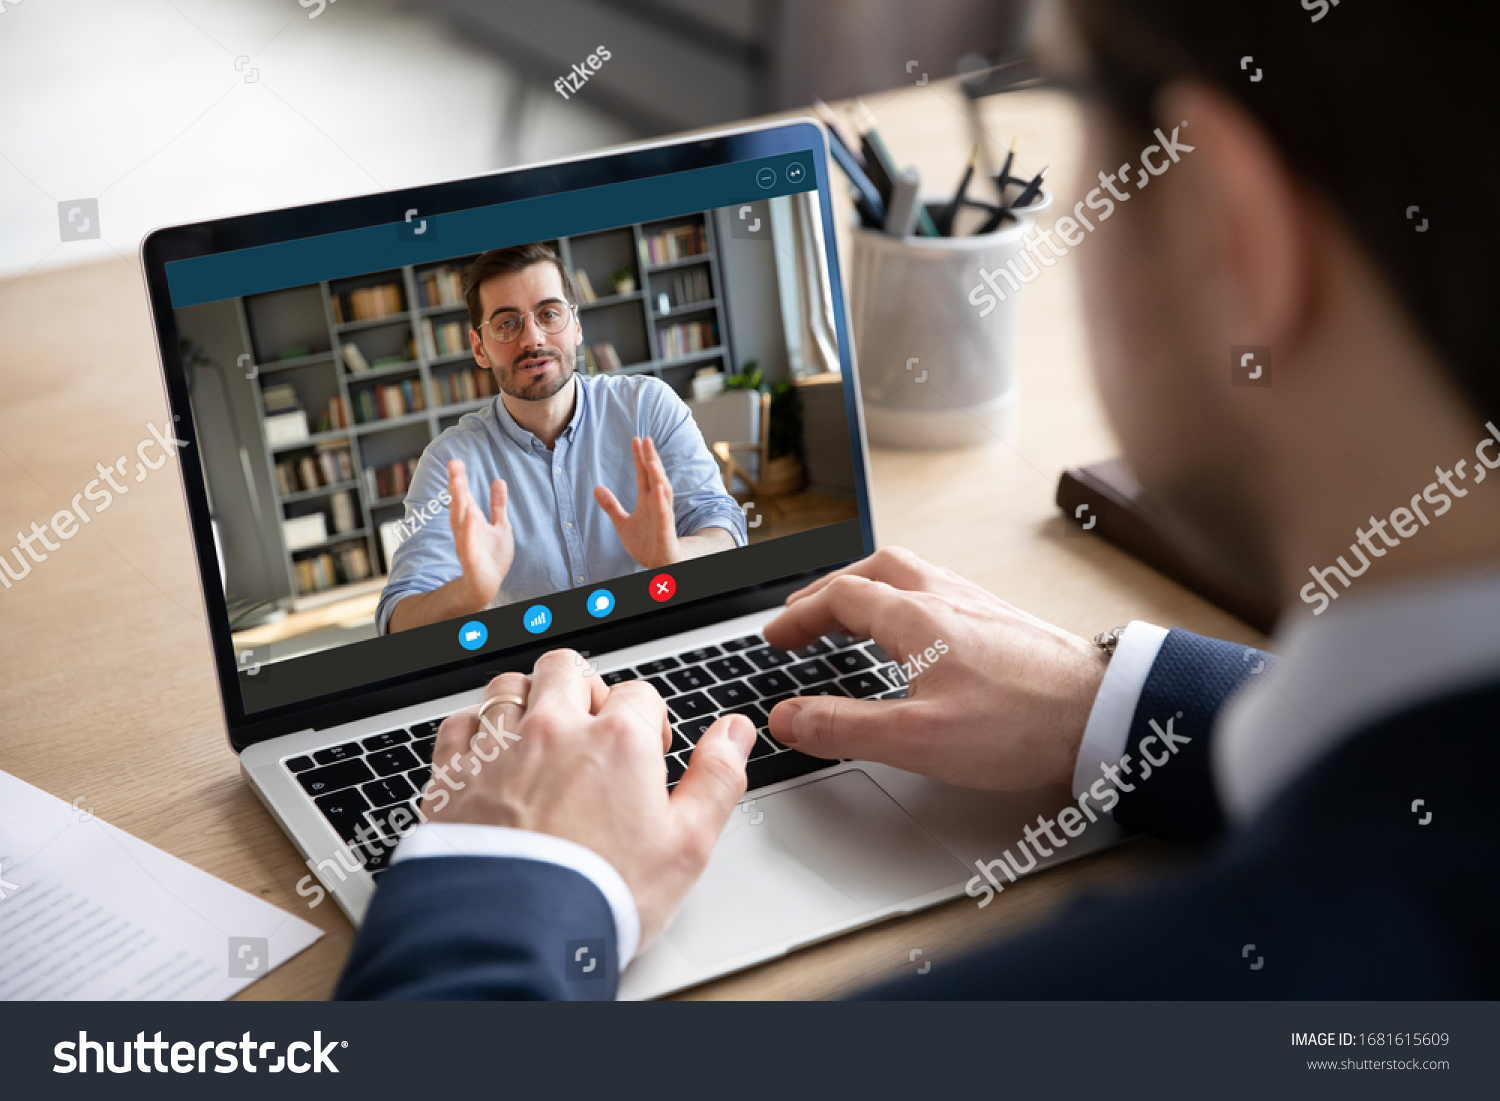
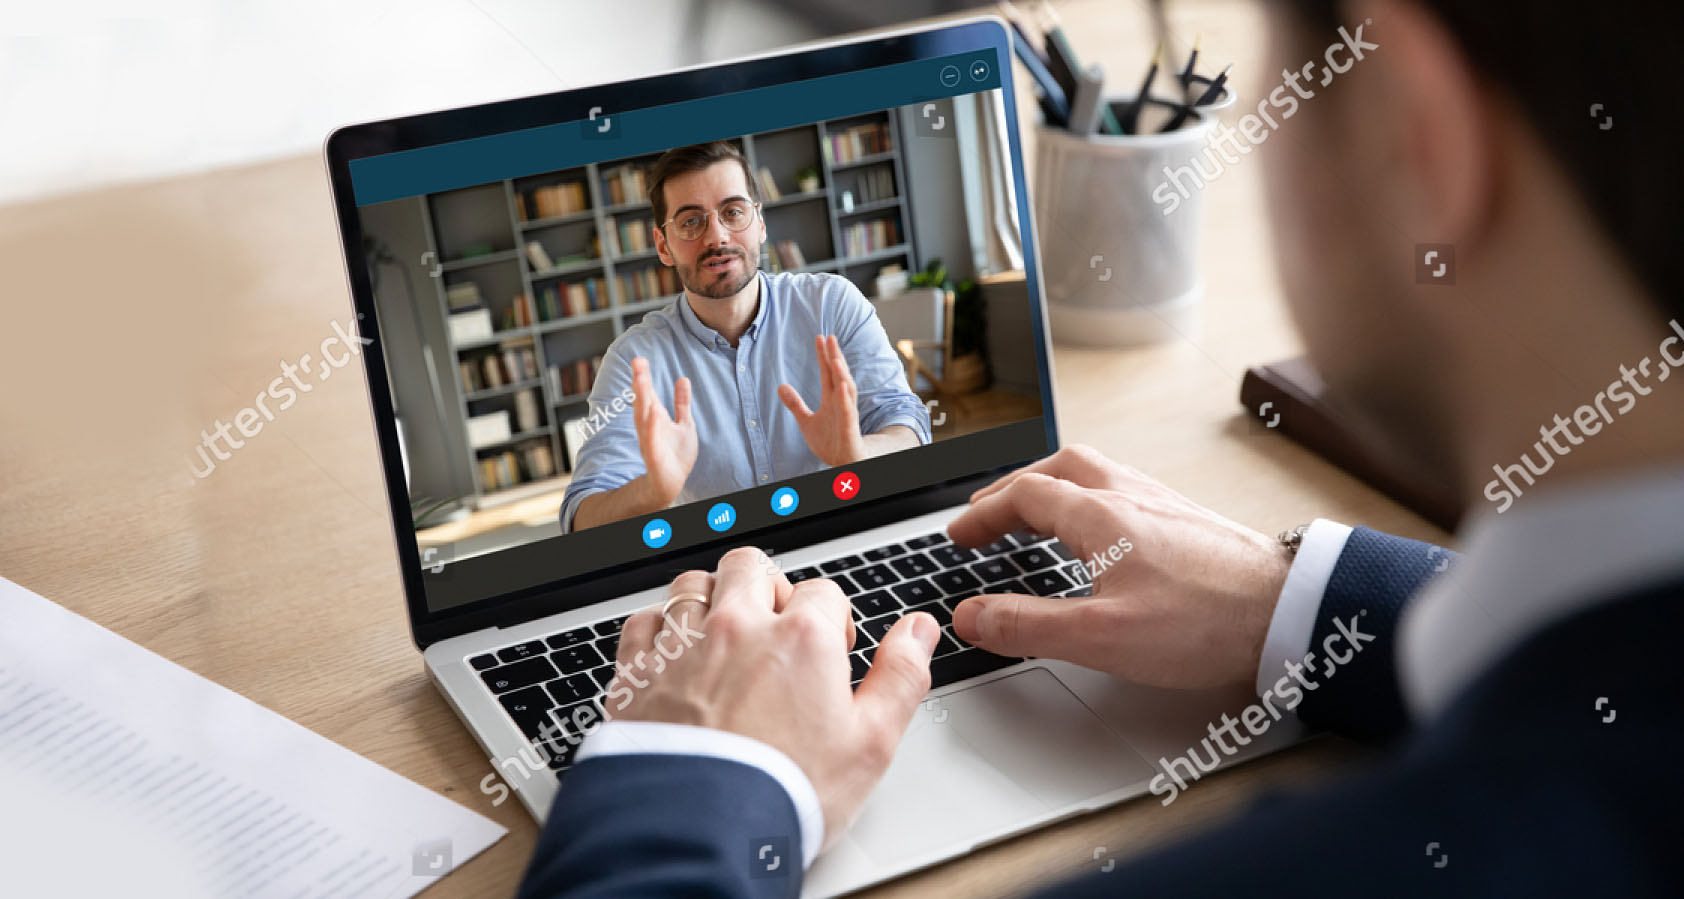
Update images

diff --git a/templates/exhibit-hall.php b/templates/exhibit-hall.php
@@ -248,7 +248,7 @@ Template Name: Exhibit Hall
 
       <div class="bg-gray-100 shadow overflow-hidden rounded-lg md:flex">
         <div class="md:w-1/3 relative px-4 py-5 border-b md:border-none border-gray-200 bg-gray-900 sm:px-6 flex items-end overflow-hidden">
-          <div class="hidden md:block absolute bg-cover bg-center inset-0 w-full h-full" style="background-image:url(<?= get_template_directory_uri() ?>/img/md-1091044655.jpg)"></div>
+          <div class="hidden md:block absolute bg-cover bg-center inset-0 w-full h-full" style="background-image:url(<?= get_template_directory_uri() ?>/img/1683310141.jpg)"></div>
           <h3 class="relative md:w-64 md:ml-auto text-4xl leading-9 font-black md:text-right text-white text-shadow">
             Well-Being
           </h3>
@@ -405,7 +405,7 @@ Template Name: Exhibit Hall
 
       <div class="bg-gray-100 shadow overflow-hidden rounded-lg md:flex">
         <div class="md:w-1/3 relative px-4 py-5 border-b md:border-none border-gray-200 bg-gray-900 sm:px-6 flex items-end overflow-hidden">
-          <div class="hidden md:block absolute bg-cover bg-center inset-0 w-full h-full" style="background-image:url(<?= get_template_directory_uri() ?>/img/1683310141.jpg)"></div>
+          <div class="hidden md:block absolute bg-cover bg-center inset-0 w-full h-full" style="background-image:url(<?= get_template_directory_uri() ?>/img/md-pklbenefits.jpg)"></div>
           <h3 class="relative md:w-64 md:ml-auto text-4xl leading-9 font-black md:text-right text-white text-shadow">
             Parkland Benefits
           </h3>

diff --git a/single-vendor.php b/single-vendor.php
@@ -118,8 +118,8 @@ Template Post Type: vendor
         </div>
       </div>
       <div class="lg:absolute lg:inset-y-0 lg:right-0 lg:w-3/5">
-        <div x-show="!double" class="h-56 w-full bg-cover bg-center object-top sm:h-72 md:h-96 lg:w-full lg:h-full" style="background-image:url(<?= get_template_directory_uri() ?>/img/lg-1091044655.jpg)"></div>
-        <div x-show="double" class="h-56 w-full bg-cover bg-center object-top sm:h-72 md:h-96 lg:w-full lg:h-full" style="background-image:url(<?= get_template_directory_uri() ?>/img/md-669130018.jpg)"></div>
+        <div x-show="!double" class="h-56 w-full bg-cover bg-center bg-top sm:h-72 md:h-96 lg:w-full lg:h-full" style="background-image:url(<?= get_template_directory_uri() ?>/img/1683310141.jpg)"></div>
+        <div x-show="double" class="h-56 w-full bg-cover bg-center bg-top sm:h-72 md:h-96 lg:w-full lg:h-full" style="background-image:url(<?= get_template_directory_uri() ?>/img/lg-669130018.jpg)"></div>
       </div>
     </div>
   </div>

diff --git a/templates/event-calendar.php b/templates/event-calendar.php
@@ -71,7 +71,8 @@ Template Name: Event Calendar
           </div>
         </div>
         <div class="lg:absolute lg:inset-y-0 lg:right-0 lg:w-3/5">
-          <div class="h-56 w-full bg-cover bg-center object-left sm:h-72 md:h-96 lg:w-full lg:h-full" style="background-image:url(<?= get_template_directory_uri() ?>/img/1681615609.jpg)"></div>
+          <div x-show="newhero" class="h-56 w-full bg-cover bg-center bg-top sm:h-72 md:h-96 lg:w-full lg:h-full" style="background-image:url(<?= get_template_directory_uri() ?>/img/lg-1517141402.jpg)"></div>
+          <div x-show="!newhero" class="h-56 w-full bg-cover bg-center bg-top sm:h-72 md:h-96 lg:w-full lg:h-full" style="background-image:url(<?= get_template_directory_uri() ?>/img/1681615609.jpg)"></div>
         </div>
       </div>
   </div>

diff --git a/front-page.php b/front-page.php
@@ -45,7 +45,8 @@
         </div>
       </div>
       <div class="lg:absolute lg:inset-y-0 lg:right-0 lg:w-3/5">
-        <div class="h-56 w-full bg-cover bg-top sm:h-72 md:h-96 lg:w-full lg:h-full" style="background-image:url(<?= get_template_directory_uri() ?>/img/hero.jpg)"></div>
+        <div x-show="!newhero" class="h-56 w-full bg-cover bg-top sm:h-72 md:h-96 lg:w-full lg:h-full" style="background-image:url(<?= get_template_directory_uri() ?>/img/hero-couple.jpg)"></div>
+        <div x-show="newhero" class="h-56 w-full bg-cover bg-top sm:h-72 md:h-96 lg:w-full lg:h-full" style="background-image:url(<?= get_template_directory_uri() ?>/img/hero-masked.jpg)"></div>
       </div>
     </div>
     <!-- features -->

diff --git a/header.php b/header.php
@@ -27,6 +27,7 @@
 	  openModal: false,
 	  openRegistration: false,
 	  showVideoModal: false,
+	  newhero: new URLSearchParams(location.search).get('newhero'),
 	  double: new URLSearchParams(location.search).get('double'),
 	  phase: new URLSearchParams(location.search).get('phase'),
 	  cookied: new URLSearchParams(location.search).get('cookied'),
